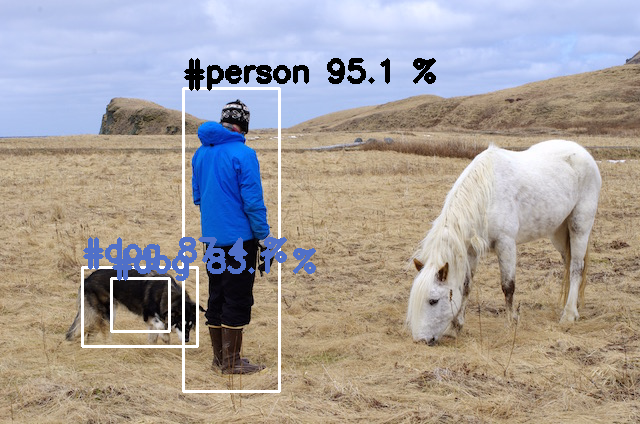
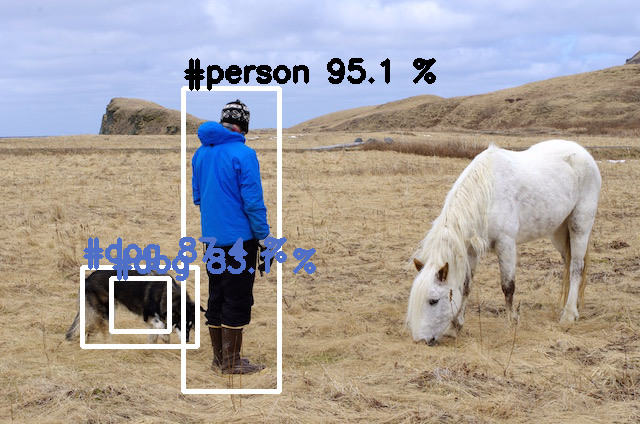
If you wanna pick the v3tiny simply for inference, devoid of any other complexity, use me

diff --git a/PeopleCounterApp/main.py b/PeopleCounterApp/main.py
@@ -27,12 +27,6 @@ MQTT_HOST = IPADDRESS
 MQTT_PORT = 3001
 MQTT_KEEPALIVE_INTERVAL = 60
 
-Anchors = 5
-anchor_sets =  [0.57273, 0.677385, 1.87446, 2.06253, 3.33843, 5.47434, 7.88282, 3.52778, 9.77052, 9.16828]
-# Link: https://github.com/pjreddie/darknet/blob/master/cfg/yolov2-tiny.cfg
-Classes = 80
-
-
 def build_argparser():
     """
     Parse command line arguments.
@@ -66,9 +60,7 @@ def build_argparser():
 # Parse the classes file into a list
 def class_file_parser(args):
     labels_map = open(args.class_file).read().strip().split("\n")
-    # Assign unique colour to each class
-    colors = np.random.randint(0, 255, size=(len(labels_map), 3), dtype="uint8")
-    return labels_map, colors
+    return labels_map
 
 def intersection_over_union(box_1, box_2):
     width_of_overlap_area = min(box_1['xmax'], box_2['xmax']) - max(box_1['xmin'], box_2['xmin'])
@@ -84,74 +76,24 @@ def intersection_over_union(box_1, box_2):
         return 0
     return area_of_overlap / area_of_union
 
-def non_maximal_suppression(thresholded_predictions,iou_threshold):
+def draw_box(frame, labels_map, objects):
+    origin_im_size = frame.shape[:-1]
+    for obj in objects:
+        # Validation bbox of detected object
+        if obj['xmax'] > origin_im_size[1] or obj['ymax'] > origin_im_size[0] or obj['xmin'] < 0 or obj['ymin'] < 0:
+            continue
+        color = (int(min(obj['class_id'] * 12.5, 255)),
+                 min(obj['class_id'] * 7, 255), min(obj['class_id'] * 5, 255))
+        det_label = labels_map[obj['class_id']] if labels_map and len(labels_map) >= obj['class_id'] else \
+            str(obj['class_id'])
 
-    nms_predictions = []
-    nms_predictions.append(thresholded_predictions[0])
-    # thresholded_predictions[0] = [x1,y1,x2,y2]
+        cv2.rectangle(frame, (obj['xmin'], obj['ymin']), (obj['xmax'], obj['ymax']), (255,255,255), 3)
+        cv2.putText(frame,
+                    "#" + det_label + ' ' + str(round(obj['confidence'] * 100, 1)) + ' %',
+                    (obj['xmin'], obj['ymin'] - 7), cv2.FONT_HERSHEY_SIMPLEX, 1, color, 3)
 
-    i = 1
-    while i < len(thresholded_predictions):
-        n_boxes_to_check = len(nms_predictions)
-        #print('N boxes to check = {}'.format(n_boxes_to_check))
-        to_delete = False
-
-        j = 0
-        while j < n_boxes_to_check:
-            curr_iou = iou(thresholded_predictions[i][0],nms_predictions[j][0])
-            if(curr_iou > iou_threshold ):
-                to_delete = True
-                #print('Checking box {} vs {}: IOU = {} , To delete = {}'.format(thresholded_predictions[i][0],nms_predictions[j][0],curr_iou,to_delete))
-                j = j+1
-
-                if to_delete == False:
-                    nms_predictions.append(thresholded_predictions[i])
-                    i = i+1
-
-                    return nms_predictions
-
-def draw_box(image, big_list, colors):
-    #image = cv2.imread(img)
-    font                   = cv2.FONT_HERSHEY_SIMPLEX
-    fontScale              = 1
-    fontColor              = (0,255,0)
-    lineType               = 2
-    thickness = 3
-    #print(image.shape)  #(3, 416, 416)
-    _, img_h, img_w = image.shape
-    #color = [c colors
-    for i in big_list:
-        box_cls = i[0]; print(box_cls)
-        box_x = i[1]; print(box_x)
-        box_y = i[2]; print(box_y)
-        box_w = i[3]; print(box_w)
-        box_h = i[4]; print(box_h)
-
-
-
-        if(box_x >=0 and box_y >= 0 and box_w>=0 and box_h>=0 and box_cls == "dog"):
-            top_x = int(box_x)
-            top_y = int(box_y)
-            bot_y = int(top_y+box_h)
-            bot_x = int(top_x+box_w);
-            print(bot_x, bot_y)
-        print("bo ");print(i[1], i[2], i[3], i[4])
-        cv2.rectangle(image,
-                    (int(i[1]), int(i[2])),
-                    (int(i[3]), int(i[4])),
-                    fontColor)
-
-        cv2.putText(image,
-                  box_cls,
-                  (i[1], i[2]-5),
-                  font,
-                  fontScale,
-                  fontColor,
-                  lineType)
-
-    # Saving the image
-    cv2.imwrite("output.png",image)
-    cv2.imshow("output", image)
+    cv2.imshow("DetectionResults", frame)
+    cv2.imwrite("DetectionResults.jpg", frame)
 
 def connect_mqtt():
     ### TODO: Connect to the MQTT client ###
@@ -162,7 +104,7 @@ def connect_mqtt():
 
 def infer_on_stream(args, client):
     # Get classes_list
-    labels_map, colors = class_file_parser(args)
+    labels_map = class_file_parser(args)
 
     # Initialise the class
     infer_network = Network()
@@ -183,6 +125,8 @@ def infer_on_stream(args, client):
         flag, frame = cap.read()
         if not flag:
             break
+        number_input_frames = int(cap.get(cv2.CAP_PROP_FRAME_COUNT))
+        number_input_frames = 1 if number_input_frames != -1 and number_input_frames < 0 else number_input_frames
 
         key_pressed = cv2.waitKey(60)
 
@@ -196,7 +140,7 @@ def infer_on_stream(args, client):
 
         ### Start asynchronous inference for specified request ###
         infer_time = infer_network.async_inference(pframe)
-        log.info("Inference Complete in {}".format(infer_time))
+        log.info(f"Inference Time: {infer_time:.6f}s")
         ### Wait for the result ###
         if(infer_network.wait() == 0):
             ### Get the results of the inference request ###
@@ -221,32 +165,7 @@ def infer_on_stream(args, client):
 
             # Drawing objects with respect to the --prob_threshold CLI parameter
             objects = [obj for obj in objects if obj['confidence'] >= args.prob_threshold]
-
-            origin_im_size = frame.shape[:-1]
-            for obj in objects:
-                # Validation bbox of detected object
-                if obj['xmax'] > origin_im_size[1] or obj['ymax'] > origin_im_size[0] or obj['xmin'] < 0 or obj['ymin'] < 0:
-                    continue
-                color = (int(min(obj['class_id'] * 12.5, 255)),
-                         min(obj['class_id'] * 7, 255), min(obj['class_id'] * 5, 255))
-                det_label = labels_map[obj['class_id']] if labels_map and len(labels_map) >= obj['class_id'] else \
-                    str(obj['class_id'])
-                """
-                if args.raw_output_message:
-                    log.info(
-                        "{:^9} | {:10f} | {:4} | {:4} | {:4} | {:4} | {} ".format(det_label, obj['confidence'], obj['xmin'],
-                                                                                  obj['ymin'], obj['xmax'], obj['ymax'],
-                                                                                  color))
-                """
-                cv2.rectangle(frame, (obj['xmin'], obj['ymin']), (obj['xmax'], obj['ymax']), (255,255,255), 2)
-                cv2.putText(frame,
-                            "#" + det_label + ' ' + str(round(obj['confidence'] * 100, 1)) + ' %',
-                            (obj['xmin'], obj['ymin'] - 7), cv2.FONT_HERSHEY_SIMPLEX, 1, color, 3)
-
-            cv2.imshow("DetectionResults", frame)
-            cv2.imwrite("DetectionResults.png", frame)
-            exit()
-
+            draw_box(frame, labels_map, objects)
             ### TODO: Extract any desired stats from the results ###
             ### TODO: Calculate and send relevant information on ###
             ### current_count, total_count and duration to the MQTT server ###
@@ -266,6 +185,7 @@ def main():
     """
     # Grab command line args
     args = build_argparser().parse_args()
+    cv2.destroyAllWindows()
     # Connect to the MQTT server
     client = connect_mqtt()
     # Perform inference on the input stream
@@ -273,7 +193,6 @@ def main():
     infer_on_stream(args, client)
     time_took = time() - fin_time
     log.info(f"Total execution Time: {time_took:.6f}s")
-    print(time_took)
 
 if __name__ == '__main__':
     main()

diff --git a/PeopleCounterApp/inference.py b/PeopleCounterApp/inference.py
@@ -1,5 +1,3 @@
-#!/usr/bin/env python3
-
 import os
 import sys
 import logging as log
@@ -69,8 +67,6 @@ def parse_yolo_region(blob, resized_image_shape, original_im_shape, params, thre
     objects = list()
 
     predictions = blob.flatten()    #(16095 for 13)
-    print(predictions)
-
     side_square = params.side * params.side     # 26*26 for first layer and 13*13 for second
 
     # ------------------------------------------- Parsing YOLO Region output -------------------------------------------
@@ -153,14 +149,12 @@ class Network:
 
         self.input_blob = next(iter(self.net.inputs))
         self.output_blob = next(iter(self.net.outputs))
-
-        ### Note: You may need to update the function parameters. ###
         return
 
     def get_input_shape(self):
         ### Return the shape of the input layer ###
-        print("The input blob shape was found as: {}".format(str(self.net.inputs[self.input_blob].shape)))
-        print("The output blob shape was found as: {}".format(str(self.net.outputs[self.output_blob].shape))) # (13, 13, 425)
+        print("Input blob shape: {}".format(str(self.net.inputs[self.input_blob].shape)))
+        print("Output blob shape: {}".format(str(self.net.outputs[self.output_blob].shape))) # (13, 13, 425)
         return self.net.inputs[self.input_blob].shape
 
     def async_inference(self, img):

diff --git a/PeopleCounterApp/WRITEUP.md b/PeopleCounterApp/WRITEUP.md
@@ -17,12 +17,12 @@ Some of the potential reasons for handling custom layers are...
 
 I have used the [YOLO v3-tiny model](https://pjreddie.com/media/files/papers/YOLOv3.pdf), based on Darknet. My method(s) to compare models before and after conversion to Intermediate Representations
 were as follows:
-Pre-Conversion|Post-Conversion
---|--
-The difference between model accuracy pre- and post-conversion was...
+Parameter|Pre-Conversion|Post-Conversion
+--|--|--
+Size|33.79 MB | 35.4 MB
+Total Execution Time|43.34 s| 2.67 s
 
-33.79 MB | 35.4 MB
-43.34 s| 0.0038 s
+Although there was an impressive boost in the exeecution time, but this was achieved at the cost of lower accuracy; many classes were not detected.
 
 ## Assess Model Use Cases
 
@@ -74,19 +74,6 @@ The conversion was successfully executed, as shown in the log:
   - [Model Source]
   - I converted the model to an Intermediate Representation with the following arguments...
   - The model was insufficient for the app because...
-  - I tried to improve the model for the app by...
-
-- Model 2: [Name]
-  - [Model Source]
-  - I converted the model to an Intermediate Representation with the following arguments...
-  - The model was insufficient for the app because...
-  - I tried to improve the model for the app by...
-
-- Model 3: [Name]
-  - [Model Source]
-  - I converted the model to an Intermediate Representation with the following arguments...
-  - The model was insufficient for the app because...
-  - I tried to improve the model for the app by...
-
+  - I tried to improve the model fo
 ### References
 * [OpenVINO Toolkit API Classes](https://docs.openvinotoolkit.org/2019_R3/ie_python_api.html)
